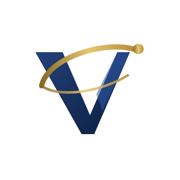
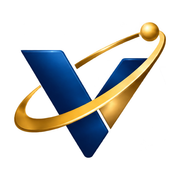
VIGO System HP を更新

Changed region(s): [[0.0556, 0.1111, 0.9444, 0.8889]]

diff --git a/assets/index-RtZc57Ys.css b/assets/index-RtZc57Ys.css
@@ -1,0 +1,1 @@
+:root{--navy:#0b1e3f;--navy-2:#12305f;--navy-3:#1d3f7a;--gold:#c9a24b;--gold-hi:#e7c873;--ink:#14213a;--mute:#5b6578;--line:#dfe4ec;--bg:#f7f8fb;--white:#fff;--radius:14px;--f-en:"Montserrat", "Noto Sans JP", sans-serif;--f-ja:"Noto Sans JP", "Hiragino Sans", sans-serif;--hdr:68px}*,:before,:after{box-sizing:border-box}html{-webkit-text-size-adjust:100%;scroll-padding-top:var(--hdr)}html.lenis,html.lenis body{height:auto}.lenis.lenis-smooth{scroll-behavior:auto!important}body{font-family:var(--f-ja);color:var(--ink);background:var(--bg);-webkit-font-smoothing:antialiased;margin:0;line-height:1.85;overflow-x:clip}img,svg,canvas{max-width:100%;display:block}a{color:inherit}button{font:inherit;cursor:pointer}.sp{display:none}@media (max-width:640px){.sp{display:inline}}.skip{z-index:100;background:var(--gold);color:var(--navy);padding:8px 12px;position:absolute;top:8px;left:-999px}.skip:focus{left:8px}.wrap{width:min(1120px,100% - 32px);margin-inline:auto}.wrap.narrow{width:min(760px,100% - 32px)}.btn{letter-spacing:.04em;border:1px solid #0000;border-radius:999px;justify-content:center;align-items:center;gap:.5em;min-height:48px;padding:0 1.6em;font-weight:700;text-decoration:none;transition:transform .25s,background .25s,color .25s,box-shadow .25s;display:inline-flex}.btn:hover{transform:translateY(-2px)}.btn-sm{min-height:40px;padding:0 1.2em;font-size:.9rem}.btn-gold{background:linear-gradient(135deg, var(--gold-hi), var(--gold) 60%, #a88232);color:var(--navy);box-shadow:0 8px 24px -10px #c9a24bcc}.btn-ghost{color:#fff;-webkit-backdrop-filter:blur(6px);backdrop-filter:blur(6px);background:#ffffff0f;border-color:#ffffff59}.btn-ghost:hover{background:#ffffff24}.btn-ghost-dark{color:var(--navy);border-color:var(--navy);background:0 0}.btn-ghost-dark:hover{background:var(--navy);color:#fff}.hdr{height:var(--hdr);z-index:50;color:#fff;justify-content:space-between;align-items:center;padding:0 max(16px,50% - 560px);transition:background .35s,color .35s,box-shadow .35s;display:flex;position:fixed;inset:0 0 auto}.hdr.solid{color:var(--navy);box-shadow:0 1px 0 var(--line);-webkit-backdrop-filter:blur(10px);backdrop-filter:blur(10px);background:#ffffffeb}.brand{align-items:center;gap:10px;text-decoration:none;display:flex}.brand-txt{flex-direction:column;line-height:1.1;display:flex}.brand-txt b{font-family:var(--f-en);letter-spacing:.06em;font-size:1.05rem;font-weight:800}.brand-txt small{letter-spacing:.3em;opacity:.75;font-size:.62rem}.brand img{box-sizing:content-box;background:#fff;border-radius:10px;padding:4px 5px}.gnav{align-items:center;gap:28px;font-size:.9rem;font-weight:500;display:flex}.gnav a:not(.btn){text-decoration:none;position:relative}.gnav a:not(.btn):after{content:"";transform-origin:0;background:currentColor;height:1px;transition:transform .3s;position:absolute;bottom:-4px;left:0;right:0;transform:scaleX(0)}.gnav a:not(.btn):hover:after{transform:scaleX(1)}.menu-btn{width:44px;height:44px;color:inherit;background:0 0;border:0;display:none;position:relative}.menu-btn span{background:currentColor;height:2px;transition:transform .3s;position:absolute;left:11px;right:11px}.menu-btn span:first-child{top:17px}.menu-btn span:last-child{top:25px}.menu-btn[aria-expanded=true] span:first-child{transform:translateY(4px)rotate(45deg)}.menu-btn[aria-expanded=true] span:last-child{transform:translateY(-4px)rotate(-45deg)}@media (max-width:860px){.menu-btn{display:block}.gnav{top:var(--hdr);height:calc(100svh - var(--hdr));background:var(--navy);color:#fff;opacity:0;pointer-events:none;flex-direction:column;justify-content:center;gap:22px;font-size:1.1rem;transition:opacity .3s;position:fixed;left:0;right:0}.gnav.open{opacity:1;pointer-events:auto}}.hero{background:radial-gradient(120% 90% at 70% 30%, #17366c 0%, var(--navy) 55%, #050d1d 100%);color:#fff;align-items:center;min-height:100svh;display:grid;position:relative;overflow:hidden}#hero-gl{width:100%;height:100%;position:absolute;inset:0}.hero-inner{width:min(1120px,100% - 32px);padding:calc(var(--hdr) + 40px) 0 80px;pointer-events:none;margin-inline:auto;position:relative}.hero-inner a,.hero-inner button{pointer-events:auto}.eyebrow{font-family:var(--f-en);letter-spacing:.32em;color:var(--gold-hi);margin:0 0 18px;font-size:.72rem;font-weight:700}.eyebrow.dark{color:var(--gold)}.nw{display:inline-block}h1,h2,p,li{word-break:auto-phrase}.hero-title{letter-spacing:.02em;margin:0;font-size:clamp(1.6rem,7.2vw,4.4rem);font-weight:700;line-height:1.32}.hero-title .line{display:block;overflow:hidden}.hero-title em{background:linear-gradient(90deg, var(--gold-hi), var(--gold));color:#0000;-webkit-background-clip:text;background-clip:text;font-style:normal}.hero-lead{color:#ffffffd1;margin:26px 0 34px;font-size:clamp(.95rem,1.6vw,1.1rem)}.hero-cta{flex-wrap:wrap;gap:12px;display:flex}@media (max-aspect-ratio:1){.hero{align-items:end}.hero-inner{padding-top:46svh;padding-bottom:72px}}.scroll-cue{font:600 .62rem var(--f-en);letter-spacing:.3em;color:#fff9;flex-direction:column;align-items:center;gap:8px;display:flex;position:absolute;bottom:22px;left:50%;transform:translate(-50%)}.scroll-cue span{background:linear-gradient(transparent, var(--gold-hi));width:1px;height:38px;animation:2s infinite cue}@keyframes cue{0%{transform-origin:top;transform:scaleY(0)}50%{transform-origin:top;transform:scaleY(1)}51%{transform-origin:bottom}to{transform-origin:bottom;transform:scaleY(0)}}.sec{padding:clamp(80px,12vw,140px) 0;position:relative}.dark-sec{background:var(--navy);color:#fff}.h2{letter-spacing:.02em;margin:0 0 20px;font-size:clamp(1.6rem,3.6vw,2.5rem);line-height:1.45}.sec-lead{color:var(--mute);max-width:40em;margin:0 0 40px}.sec-lead.light{color:#ffffffb8}.note{color:var(--mute);margin:10px 0 0;font-size:.78rem}.dark-sec .note{color:#fff9}.mono{font-family:ui-monospace,SF Mono,Menlo,monospace;font-size:.82rem}.svc-cards{grid-template-columns:repeat(5,1fr);gap:14px;margin:0;padding:0;list-style:none;display:grid}.svc{border:1px solid var(--line);border-radius:var(--radius);background:#fff;flex-direction:column;gap:6px;min-height:210px;padding:22px 20px;text-decoration:none;transition:transform .35s,box-shadow .35s,border-color .35s;display:flex;position:relative;overflow:hidden}.svc:before{content:"";background:linear-gradient(160deg, var(--navy), var(--navy-3));opacity:0;transition:opacity .35s;position:absolute;inset:0}.svc>*{position:relative}.svc:hover{transform:translateY(-6px);box-shadow:0 24px 40px -24px #0b1e3f80}.svc:hover:before{opacity:1}.svc:hover b,.svc:hover small{color:#fff}.svc .num{font:800 .8rem var(--f-en);color:var(--gold);letter-spacing:.1em}.svc b{margin-top:auto;font-size:1.12rem;transition:color .35s}.svc small{color:var(--mute);font-size:.8rem;line-height:1.6;transition:color .35s}.svc .arrow{border:1px solid var(--gold);border-radius:50%;width:26px;height:26px;position:absolute;top:22px;right:18px}.svc .arrow:after{content:"";border-right:1.5px solid var(--gold);border-bottom:1.5px solid var(--gold);width:7px;height:7px;margin:auto;position:absolute;inset:0;transform:translateY(-1px)rotate(45deg)}@media (max-width:960px){.svc-cards{grid-template-columns:repeat(2,1fr)}.svc-cards li:last-child{grid-column:1/-1}.svc{min-height:150px}}.demo-grid{grid-template-columns:1fr 1fr;align-items:center;gap:clamp(32px,6vw,80px);display:grid}.demo-grid.rev>:first-child{order:2}@media (max-width:860px){.demo-grid{grid-template-columns:1fr}.demo-grid.rev>:first-child{order:0}}.demo-txt p{margin:0 0 18px}.dark-sec .demo-txt p{color:#fffc}.ticks{gap:8px;margin:0 0 24px;padding:0;font-size:.92rem;list-style:none;display:grid}.ticks li{padding-left:26px;position:relative}.ticks li:before{content:"";border-left:2px solid var(--gold);border-bottom:2px solid var(--gold);width:12px;height:7px;position:absolute;top:.55em;left:2px;transform:rotate(-45deg)}.demo-box{border-radius:var(--radius);background:#ffffff0a;border:1px solid #ffffff1f;padding:18px}#flow-svg{width:100%;height:auto}#flow-svg .node rect{fill:var(--navy-2);stroke:#e7c87380}#flow-svg .node text{fill:#fff;font-size:18px;font-weight:700;font-family:var(--f-ja)}#flow-svg .node .sub{fill:#fff9;font-size:11.5px;font-weight:500}#flow-svg .edge{fill:none;stroke:#ffffff38;stroke-width:2px}#flow-svg .edge.back{stroke-dasharray:5 6;stroke:#e7c87366}#flow-svg .pkt{fill:var(--gold-hi)}#flow-svg .pkt.ng{fill:#ff8a7a}.worker-test{flex-wrap:wrap;align-items:center;gap:12px;margin-top:14px;display:flex}.worker-test p{color:#fffc;flex:220px;margin:0}.phone{aspect-ratio:9/18.5;background:linear-gradient(145deg,#2a2f3a,#0d1017);border-radius:44px;width:min(320px,100%);margin-inline:auto;padding:12px;position:relative;box-shadow:0 40px 80px -30px #0b1e3f99,inset 0 0 0 2px #3a404d}.phone-notch{z-index:2;background:#000;border-radius:20px;width:90px;height:24px;position:absolute;top:20px;left:50%;transform:translate(-50%)}.phone-screen{background:#f3f5f9;border-radius:34px;flex-direction:column;gap:12px;height:100%;padding:54px 16px 16px;font-size:.86rem;display:flex;overflow:auto}.app-bar{justify-content:space-between;align-items:baseline;display:flex}.app-bar b{font-size:1.2rem}.app-bar span{color:var(--mute);font-size:.75rem}.app-status{background:var(--navy);color:#fff;text-align:center;border-radius:12px;padding:12px;font-weight:700}.app-status.on{background:linear-gradient(135deg,#1f7a53,#145a3c)}.app-btns{grid-template-columns:1fr 1fr;gap:8px;display:grid}.app-btn{color:#fff;border:0;border-radius:12px;min-height:52px;font-size:1rem;font-weight:700;transition:transform .1s}.app-btn:active{transform:scale(.96)}.app-btn.go{background:var(--navy-3)}.app-btn.back{background:#6b7385}.app-btn:disabled{opacity:.35}.app-check{border:1px solid var(--line);background:#fff;border-radius:12px;gap:4px;margin:0;padding:8px 12px;display:grid}.app-check legend{color:var(--mute);padding:0 4px;font-size:.72rem}.app-check label{align-items:center;gap:8px;min-height:30px;display:flex}.app-check input{width:18px;height:18px;accent-color:var(--navy-3)}.app-log{gap:6px;margin:0;padding:0;list-style:none;display:grid}.app-log li{border-left:3px solid var(--gold);background:#fff;border-radius:10px;justify-content:space-between;padding:8px 10px;animation:.35s pop;display:flex}@keyframes pop{0%{opacity:0;transform:translateY(6px)}}.app-clear{color:var(--mute);background:0 0;border:0;margin-top:auto;font-size:.75rem;text-decoration:underline}.web-sec{background:#fff;padding-bottom:80px}.web-pin{align-items:center;min-height:100svh;padding:60px 0;display:flex}.web-steps{flex-wrap:wrap;gap:8px;margin:0;padding:0;list-style:none;display:flex}.web-steps li{border:1px solid var(--line);color:var(--mute);border-radius:999px;padding:6px 14px;font-size:.82rem;transition:all .3s}.web-steps li.on{background:var(--navy);color:#fff;border-color:var(--navy)}.mock{border:1px solid var(--line);background:#fff;border-radius:14px;overflow:hidden;box-shadow:0 30px 60px -30px #0b1e3f66}.mock-bar{background:#eef1f6;align-items:center;gap:6px;padding:10px 12px;display:flex}.mock-bar i{background:#cfd5df;border-radius:50%;width:10px;height:10px}.mock-bar span{color:var(--mute);background:#fff;border-radius:6px;flex:1;margin-left:10px;padding:2px 10px;font-size:.7rem}.mock-body{gap:14px;padding:16px;display:grid}.mock-body div,.mock-body i{transition:background .6s,border-color .6s,transform .8s cubic-bezier(.2,.8,.2,1),opacity .6s,box-shadow .6s}.m-hero{border:2px dashed #c9cfd9;border-radius:10px;flex-direction:column;justify-content:center;gap:10px;height:150px;padding:18px;display:flex;position:relative;overflow:hidden}.m-h1{background:#e3e7ee;border-radius:4px;width:62%;height:18px}.m-p{background:#e3e7ee;border-radius:4px;width:44%;height:10px}.m-btn{border:2px dashed #c9cfd9;border-radius:999px;width:84px;height:24px}.m-cards{grid-template-columns:repeat(3,1fr);gap:10px;display:grid}.m-cards div{border:2px dashed #c9cfd9;border-radius:8px;height:64px}.m-row{grid-template-columns:1fr 1.3fr;gap:12px;display:grid}.m-img{border:2px dashed #c9cfd9;border-radius:8px;height:76px}.m-lines{align-content:center;gap:8px;display:grid}.m-lines i{background:#e3e7ee;border-radius:4px;height:8px;display:block}.m-lines i:nth-child(2){width:80%}.m-lines i:nth-child(3){width:56%}.mock[data-stage="1"] .m-hero,.mock[data-stage="2"] .m-hero{background:linear-gradient(135deg, var(--navy), var(--navy-3));border:2px solid #0000}.mock[data-stage="1"] .m-h1,.mock[data-stage="2"] .m-h1{background:#fff}.mock[data-stage="1"] .m-p,.mock[data-stage="2"] .m-p{background:#ffffff80}.mock[data-stage="1"] .m-btn,.mock[data-stage="2"] .m-btn{background:var(--gold);border:2px solid #0000}.mock[data-stage="1"] .m-cards div,.mock[data-stage="2"] .m-cards div{border:1px solid var(--line);background:#f6f8fb}.mock[data-stage="1"] .m-img,.mock[data-stage="2"] .m-img{background:#dfe6f2;border:2px solid #0000}.mock[data-stage="1"] .m-lines i,.mock[data-stage="2"] .m-lines i{background:#c7cfdc}.mock[data-stage="2"] .m-hero:after{content:"";background:radial-gradient(circle,#e7c873e6,#0000 65%);border-radius:50%;width:140px;height:140px;animation:4s ease-in-out infinite float;position:absolute;top:-30px;right:-20px}.mock[data-stage="2"] .m-btn{animation:2.4s ease-in-out infinite breathe;box-shadow:0 0 0 6px #c9a24b40}.mock[data-stage="2"] .m-cards div:first-child{transform:translateY(-6px);box-shadow:0 12px 20px -14px #0b1e3f80}.mock[data-stage="2"] .m-cards div:nth-child(2){transform:translateY(-3px)}.mock[data-stage="2"] .m-img{background:linear-gradient(120deg,#8aa3cf,#c9a24b) 0 0/200% 200%;animation:5s infinite pan}@keyframes float{50%{transform:translate(-16px,14px)}}@keyframes breathe{50%{box-shadow:0 0 0 10px #c9a24b1a}}@keyframes pan{50%{background-position:100% 100%}}.metrics{grid-template-columns:repeat(4,1fr);gap:12px;margin:0;display:grid}.metrics div{border:1px solid var(--line);border-radius:var(--radius);background:var(--bg);padding:16px}.metrics dt{color:var(--mute);font-size:.74rem}.metrics dd{font:800 1.5rem var(--f-en);color:var(--navy);margin:4px 0 0}@media (max-width:760px){.metrics{grid-template-columns:1fr 1fr}}.sns-wrap{color:var(--ink);background:#fff;border-radius:18px;width:min(420px,100%);margin-inline:auto;padding:14px}.sns-head{align-items:center;gap:10px;margin-bottom:12px;display:flex}.sns-head b{font-size:.9rem;line-height:1.3;display:block}.sns-head small{color:var(--mute);font-size:.68rem}.sns-ava{background:conic-gradient(var(--gold-hi), var(--navy-3), var(--gold-hi));border-radius:50%;flex:none;width:40px;height:40px;padding:2px}.sns-grid{grid-template-columns:repeat(3,1fr);gap:3px;display:grid}.sns-grid canvas{aspect-ratio:4/5;border-radius:2px;width:100%;height:auto}.ai-box{background:var(--white);border:1px solid var(--line);border-radius:var(--radius);padding:22px;box-shadow:0 30px 60px -40px #0b1e3f66}.ai-lab{font-size:.85rem;font-weight:700}.ai-box textarea{border:1px solid var(--line);width:100%;font:inherit;resize:vertical;background:var(--bg);border-radius:10px;margin:8px 0 12px;padding:12px}.ai-prog{background:var(--line);border-radius:3px;height:6px;margin-top:12px;overflow:hidden}.ai-prog i{background:linear-gradient(90deg, var(--gold), var(--navy-3));width:0;height:100%;transition:width .2s;display:block}.ai-res{gap:8px;margin:16px 0 0;padding:0;list-style:none;display:grid}.ai-res li{grid-template-columns:7.5em 1fr 3.2em;align-items:center;gap:10px;font-size:.86rem;display:grid}.ai-res .bar{background:var(--line);border-radius:5px;height:10px;overflow:hidden}.ai-res .bar i{background:var(--navy-3);width:0;height:100%;transition:width .8s cubic-bezier(.2,.8,.2,1);display:block}.ai-res li.top .bar i{background:linear-gradient(90deg, var(--gold), var(--gold-hi))}.ai-res li.top b{color:var(--navy)}.ai-res .pct{font:700 .8rem var(--f-en);text-align:right;color:var(--mute)}.tech-sec{overflow:hidden}.sphere{cursor:grab;touch-action:pan-y;-webkit-user-select:none;user-select:none;height:clamp(380px,60vw,560px);margin-top:10px;position:relative}.sphere:active{cursor:grabbing}.sphere span{white-space:nowrap;font:700 clamp(.78rem, 1.6vw, 1rem) var(--f-en);color:#fff;will-change:transform, opacity;background:#12305fbf;border:1px solid #e7c87373;border-radius:999px;padding:6px 14px;position:absolute;top:50%;left:50%}.works{grid-template-columns:repeat(auto-fill,minmax(300px,1fr));gap:16px;margin:0;padding:0;list-style:none;display:grid}.works li{border:1px solid var(--line);border-radius:var(--radius);background:#fff;flex-direction:column;gap:4px;padding:22px;display:flex;position:relative}.works .tag{color:var(--gold);border:1px solid var(--gold);border-radius:999px;align-self:flex-start;padding:0 10px;font-size:.7rem;font-weight:700}.works b{margin-top:8px;font-size:1.05rem}.works small{color:var(--mute);font-size:.78rem}.works p{color:#39445a;margin:8px 0 12px;font-size:.86rem}.works .st{background:var(--bg);color:var(--navy-3);border-radius:6px;align-self:flex-start;margin-top:auto;padding:2px 10px;font-size:.72rem;font-weight:700}.flow-sec{background:#fff}.steps{z-index:1;grid-template-columns:repeat(5,1fr);gap:16px;margin:40px 0 0;padding:0;list-style:none;display:grid;position:relative}.steps li{background:#fff}.steps span{font:800 2rem var(--f-en);color:var(--gold);display:block}.steps b{font-size:1.1rem}.steps p{color:var(--mute);margin:6px 0 0;font-size:.84rem}.steps-line{width:100%;height:10px;margin-top:24px}.steps-line path{stroke:var(--gold);stroke-width:3px;fill:none;stroke-dasharray:1000;stroke-dashoffset:1000px;vector-effect:non-scaling-stroke}@media (max-width:860px){.steps{grid-template-columns:1fr;gap:20px}.steps li{grid-template-columns:3.4em 1fr;column-gap:12px;display:grid}.steps span{grid-row:span 2}.steps p{margin:0}.steps-line{display:none}}.eng{grid-template-columns:220px 1fr;align-items:center;gap:48px;display:grid}.eng-mark{aspect-ratio:1;background:radial-gradient(circle at 30% 30%,#fff,#dfe5ef);border-radius:50%;place-items:center;display:grid;box-shadow:0 0 0 1px #e7c87399,0 0 0 14px #ffffff0a,0 0 0 28px #ffffff08}.eng-mark img{width:58%}.eng .h2{font-family:var(--f-en);letter-spacing:.1em;margin-bottom:4px;font-weight:800}.eng-role{color:var(--gold-hi);margin:0 0 16px;font-size:.85rem}.eng p:last-child{color:#fffc}@media (max-width:700px){.eng{grid-template-columns:1fr;gap:28px}.eng-mark{width:160px}}.co{border-top:1px solid var(--line);margin:0}.co div{border-bottom:1px solid var(--line);grid-template-columns:9em 1fr;gap:16px;padding:18px 4px;display:grid}.co dt{color:var(--mute);font-size:.88rem}.co dd{margin:0}.co .tbd{color:var(--mute)}@media (max-width:560px){.co div{grid-template-columns:1fr;gap:2px}}.form{gap:18px;margin-top:10px;display:grid}.form label{gap:6px;font-size:.86rem;font-weight:500;display:grid}.form input:not([type=checkbox]),.form textarea{color:#fff;width:100%;font:inherit;background:#ffffff0f;border:1px solid #ffffff40;border-radius:10px;padding:12px 14px;font-size:1rem}.form input:focus,.form textarea:focus{outline:2px solid var(--gold);outline-offset:1px}.form [aria-invalid=true]{border-color:#ff8a7a}.chips{border:0;flex-wrap:wrap;gap:8px;margin:0;padding:0;display:flex}.chips legend{margin-bottom:8px;padding:0;font-size:.86rem}.chips label{cursor:pointer;border:1px solid #ffffff40;border-radius:999px;align-items:center;gap:6px;padding:6px 14px;display:inline-flex}.chips label:has(input:checked){background:var(--gold);color:var(--navy);border-color:var(--gold)}.chips input{opacity:0;pointer-events:none;position:absolute}.chips label:has(input:focus-visible){outline:2px solid var(--gold-hi)}.form .btn{justify-self:start}.ftr{color:#ffffffb3;background:#050d1d;padding:36px 0 90px;font-size:.78rem}.ftr-in{flex-wrap:wrap;justify-content:space-between;align-items:center;gap:16px;display:flex}.ftr .brand{color:#fff}.story{background:radial-gradient(90% 70% at 50% 40%,#fff 0%,#eef2f8 55%,#dde4ef 100%);position:relative}.story-stage{height:100svh;position:relative;overflow:hidden}#story-gl{width:100%;height:100%;position:absolute;inset:0}.story-caps{pointer-events:none;width:min(360px,34vw);margin:0;padding:0;list-style:none;position:absolute;top:50%;left:max(16px,50% - 560px);transform:translateY(-50%)}.story-cap{opacity:0;transition:opacity .6s,transform .6s cubic-bezier(.2,.8,.2,1);position:absolute;inset:auto 0;transform:translateY(calc(24px - 50%))}.story-cap.on{opacity:1;transform:translateY(-50%)}.story-cap span{font:800 .8rem var(--f-en);color:var(--gold);letter-spacing:.2em}.story-cap b{color:var(--navy);margin:8px 0 12px;font-size:clamp(1.4rem,2.6vw,2.1rem);line-height:1.45;display:block}.story-cap p{color:var(--mute);margin:0;font-size:.95rem}.story-label{color:#fff;white-space:nowrap;opacity:0;pointer-events:none;background:#0b1e3fe0;border-radius:999px;align-items:center;gap:8px;margin:-14px 0 0 6px;padding:6px 12px;font-size:.8rem;font-weight:700;transition:opacity .4s;display:flex;position:absolute;top:0;left:0}.story-label i{background:var(--gold-hi);width:8px;height:8px;box-shadow:0 0 8px var(--gold-hi);border-radius:50%}.story-label.on{opacity:1}.story-bar{background:#0b1e3f1f;border-radius:2px;width:min(240px,50vw);height:3px;position:absolute;bottom:28px;left:50%;overflow:hidden;transform:translate(-50%)}.story-bar i{transform-origin:0;background:linear-gradient(90deg, var(--gold), var(--navy-3));width:100%;height:100%;display:block;transform:scaleX(0)}.story-hint{color:var(--mute);letter-spacing:.1em;margin:0;font-size:.72rem;position:absolute;bottom:40px;left:50%;transform:translate(-50%)}@media (max-aspect-ratio:21/20){.story-caps{top:calc(var(--hdr) + 16px);width:auto;right:16px;transform:none}.story-cap{transform:translateY(16px)}.story-cap.on{transform:none}.story-cap b{margin:4px 0 6px;font-size:1.3rem}.story-cap p{font-size:.85rem}}.rv{opacity:0;transform:translateY(28px)}.no-js .rv,.reduced .rv{opacity:1;transform:none}.xray-btn{z-index:60;color:#fff;-webkit-backdrop-filter:blur(8px);backdrop-filter:blur(8px);background:#0b1e3fe0;border:1px solid #e7c87399;border-radius:999px;align-items:center;gap:8px;min-height:44px;padding:0 16px;font-size:.82rem;font-weight:700;display:flex;position:fixed;bottom:16px;right:16px;box-shadow:0 10px 30px -10px #00000080}.xray-btn.hide{opacity:0;pointer-events:none;transform:translateY(10px)}.xray-btn{transition:opacity .3s,transform .3s}.xray-btn .dot{background:#6b7385;border-radius:50%;width:9px;height:9px;transition:background .3s,box-shadow .3s}.xray-btn[aria-pressed=true] .dot{background:#4ef0a8;box-shadow:0 0 10px #4ef0a8}.hud{z-index:60;color:#cfe9ff;-webkit-backdrop-filter:blur(8px);backdrop-filter:blur(8px);background:#030a18e6;border:1px solid #4ef0a866;border-radius:12px;width:236px;padding:12px 14px;font:500 .72rem ui-monospace,SF Mono,Menlo,monospace;position:fixed;bottom:16px;left:16px}.hud-t{color:#4ef0a8;letter-spacing:.05em;margin:0 0 6px}.hud dl{gap:2px;margin:0;display:grid}.hud dl div{justify-content:space-between;gap:8px;display:flex}.hud dd{color:#fff;margin:0}@media (max-width:560px){.hud{width:auto;bottom:70px;left:8px;right:8px}.hud dl{grid-template-columns:1fr 1fr;column-gap:14px}}body.xray [data-tech]{outline-offset:-8px;outline:1px dashed #4ef0a8b3}body.xray [data-tech]:before{content:attr(data-tech);z-index:40;color:#04140c;pointer-events:none;background:#4ef0a8;border-radius:4px;max-width:calc(100% - 28px);padding:4px 10px;font:600 .72rem ui-monospace,SF Mono,Menlo,monospace;animation:.35s tagin;position:absolute;top:14px;left:14px}body.xray .hdr[data-tech]:before{top:calc(100% + 6px)}body.xray .hdr{outline-offset:-2px}body.xray{background-image:linear-gradient(#4ef0a80f 1px,#0000 1px),linear-gradient(90deg,#4ef0a80f 1px,#0000 1px);background-size:24px 24px}@keyframes tagin{0%{opacity:0;transform:translateY(-4px)}}@media (prefers-reduced-motion:reduce){*,:before,:after{transition-duration:.01ms!important;animation-duration:.01ms!important;animation-iteration-count:1!important}}:root{--f-serif-en:"Cormorant Garamond", "Shippori Mincho", serif;--f-mincho:"Shippori Mincho", "Hiragino Mincho ProN", serif;--space:#02040a}.hdr{color:#fff;opacity:0;pointer-events:none;background:linear-gradient(#02040a8c,#02040a00);height:92px;padding-inline:max(20px,50% - 688px);transition:opacity .8s,transform .8s,background .4s;transform:translateY(-12px)}body.hdr-on .hdr{opacity:1;pointer-events:auto;transform:none}.hdr.solid{color:#fff;-webkit-backdrop-filter:blur(14px);backdrop-filter:blur(14px);background:#040916db;box-shadow:0 1px #e7c8732e}.brand img{background:0 0;width:58px;height:auto;padding:0}.hdr.solid .brand img{box-shadow:none}.brand-txt b{letter-spacing:.02em;background:linear-gradient(#fff,#c9d4e8);color:#0000;-webkit-background-clip:text;background-clip:text;font-size:1.45rem;font-weight:800}.brand-txt small{letter-spacing:.35em;opacity:.8;align-items:center;gap:6px;font-size:.62rem;display:flex}.brand-txt small:before,.brand-txt small:after{content:"";opacity:.6;background:currentColor;width:22px;height:1px}.gnav{gap:38px}.gnav>a:not(.pill){flex-direction:column;align-items:center;padding-bottom:6px;line-height:1.25;text-decoration:none;display:flex}.gnav>a:not(.pill) b{font:500 1.08rem var(--f-serif-en);letter-spacing:.14em}.gnav>a:not(.pill) small{font:500 .66rem var(--f-mincho);letter-spacing:.2em;opacity:.75}.gnav>a.on{color:var(--gold-hi)}.gnav>a:not(.pill):after{background:linear-gradient(90deg, transparent, var(--gold-hi), transparent);height:2px;bottom:-2px;left:20%;right:20%}.gnav>a.on:after{transform:scaleX(1)}.gnav-sep{background:#ffffff40;width:1px;height:40px}.pill{letter-spacing:.06em;white-space:nowrap;border-radius:999px;align-items:center;gap:12px;min-height:52px;padding:0 26px;font-size:.95rem;font-weight:700;text-decoration:none;transition:transform .25s,box-shadow .25s,background .25s;display:inline-flex}.pill svg{fill:none;stroke:currentColor;stroke-width:1.6px;stroke-linecap:round;stroke-linejoin:round;flex:none;width:20px;height:20px}.pill .arr{margin-left:6px;transition:transform .25s}.pill:hover{transform:translateY(-2px)}.pill:hover .arr{transform:translate(4px)}.pill-gold{color:#1a1408;background:linear-gradient(#f3dca2,#d7b46c 55%,#b98f45);box-shadow:0 10px 30px -12px #e7be6ed9,inset 0 1px #fff9}.pill-line{color:#fff;-webkit-backdrop-filter:blur(6px);backdrop-filter:blur(6px);background:#08102259;border:1px solid #ffffff8c}.pill-line:hover{background:#ffffff14}.cosmos{background:var(--space);position:relative}.cosmos-stage{background:var(--space);height:100svh;position:relative;overflow:hidden}#cosmos-gl{width:100%;height:100%;display:block;position:absolute;inset:0}.cosmos-flash{pointer-events:none;opacity:0;mix-blend-mode:screen;background:radial-gradient(circle,#fffaf0 0%,#ffe2aad9 18%,#78a0ff40 45%,#02040a00 75%);position:absolute;inset:0}.cosmos-ui{visibility:hidden;color:#fff;position:absolute;inset:0}.cosmos-copy{width:min(640px,48vw);position:absolute;top:20%;left:max(24px,59% - 720px)}.logo-big{align-items:center;gap:4px;display:flex}.logo-big img{filter:drop-shadow(0 0 24px #78a0ff59);width:clamp(90px,9vw,150px);height:auto}.logo-big b{font:800 clamp(2.4rem, 4.6vw, 4.4rem) var(--f-en);letter-spacing:-.01em;background:linear-gradient(#fff 0%,#dfe6f3 45%,#9fb0cc 100%);color:#0000;filter:drop-shadow(0 2px 18px #8caaff59);-webkit-background-clip:text;background-clip:text;line-height:1;display:block}.logo-big span{font:600 clamp(.9rem, 1.4vw, 1.3rem) var(--f-mincho);letter-spacing:.3em;color:#dfe6f3;justify-content:center;align-items:center;gap:14px;margin-top:8px;display:flex}.logo-big span:before,.logo-big span:after{content:"";background:#dfe6f3b3;flex:1;max-width:80px;height:1px}.catch{border-left:2px solid var(--gold-hi);font:500 clamp(1.05rem, 1.85vw, 2rem) var(--f-mincho);letter-spacing:.06em;white-space:nowrap;color:#f3f5fa;text-shadow:0 2px 20px #0009;margin:clamp(22px,3vw,40px) 0 0;padding-left:22px;line-height:1.6}.catch-en{font:500 clamp(.7rem, .95vw, .9rem) var(--f-serif-en);letter-spacing:.62em;color:#dfe6f3bf;margin:14px 0 0 24px}.cosmos-cta{flex-wrap:wrap;gap:22px;margin:clamp(26px,3.4vw,44px) 0 0 22px;display:flex}.cosmos-scroll{font:500 .82rem var(--f-serif-en);letter-spacing:.3em;color:#ffffffbf;flex-direction:column;align-items:center;gap:8px;margin:0;display:flex;position:absolute;bottom:18px;left:50%;transform:translate(-50%)}.cosmos-scroll i{background:linear-gradient(#ffffffb3,#0000);width:1px;height:46px}.orbit-icons{pointer-events:none;position:absolute;inset:0}.oi{color:#fff;pointer-events:auto;opacity:0;will-change:transform, opacity;text-align:center;flex-direction:column;align-items:center;text-decoration:none;display:flex;position:absolute;top:0;left:0}.oi-c{aspect-ratio:1;background:radial-gradient(circle at 35% 30%,#465a82f2,#0e1628f2 70%);border-radius:50%;place-items:center;width:clamp(64px,5.6vw,96px);transition:transform .3s,box-shadow .3s;display:grid;box-shadow:0 0 0 1px #ffffff47,0 0 0 4px #0a101e99,0 12px 30px #0000008c,inset 0 1px #ffffff40}.oi-c svg{fill:none;stroke:#f2f5fb;stroke-width:1.4px;stroke-linecap:round;stroke-linejoin:round;width:46%;height:46%}.oi:hover .oi-c{box-shadow:0 0 0 1px var(--gold-hi), 0 0 24px #e7c87399, 0 12px 30px #0000008c;transform:translateY(-4px)scale(1.05)}.oi b{font:600 clamp(.95rem, 1.35vw, 1.3rem) var(--f-mincho);letter-spacing:.06em;text-shadow:0 2px 12px #000000e6;white-space:nowrap;margin-top:10px}.oi small{font:500 clamp(.7rem, .9vw, .88rem) var(--f-serif-en);letter-spacing:.04em;color:#e6ecf8d9;text-shadow:0 2px 10px #000000e6;white-space:nowrap}.cosmos-cue{color:#dce4f5cc;letter-spacing:.25em;pointer-events:none;flex-direction:column;align-items:center;gap:10px;margin:0;font-size:.8rem;transition:opacity .3s;display:flex;position:absolute;bottom:34px;left:50%;transform:translate(-50%)}.cosmos-cue i{background:linear-gradient(var(--gold-hi), transparent);width:1px;height:52px;animation:2.2s infinite cue}.cosmos-skip{z-index:3;color:#ffffffbf;min-height:40px;font:500 .8rem var(--f-serif-en);letter-spacing:.25em;background:#ffffff0a;border:1px solid #ffffff4d;border-radius:999px;padding:0 16px;transition:opacity .3s,background .3s;position:absolute;bottom:22px;right:22px}.cosmos-skip:hover{background:#ffffff1f}body:not(.past-hero) .xray-btn{opacity:0;pointer-events:none}@media (max-width:1100px){.gnav{gap:22px}.gnav>a:not(.pill) b{font-size:.95rem}}@media (max-width:860px){.hdr{height:68px}.brand img{width:40px}.brand-txt b{font-size:1.1rem}.gnav>a:not(.pill){flex-direction:row;align-items:baseline;gap:10px}.gnav-sep{display:none}}@media (max-aspect-ratio:21/20){.cosmos-copy{width:auto;inset:auto 20px calc(clamp(120px,21svh,190px) + 36px)}.logo-big{justify-content:center}.logo-big img{width:64px}.logo-big b{font-size:clamp(1.9rem,8.6vw,2.6rem)}.catch{white-space:normal;margin-top:16px;font-size:clamp(1.05rem,4.6vw,1.3rem)}.catch-en{letter-spacing:.38em;font-size:.62rem}.cosmos-cta{gap:10px;margin-top:18px;margin-left:0}.cosmos-cta .pill{flex:1 1 0;justify-content:center;gap:8px;min-height:46px;padding:0 14px;font-size:.85rem}.cosmos-cta .pill .arr{display:none}.orbit-icons{justify-content:center;gap:4px;padding:0 8px;display:flex;inset:auto 0 34px}.oi{flex:1 1 0;position:static;transform:none!important}.oi-c{width:clamp(46px,13vw,60px)}.oi b{letter-spacing:0;white-space:normal;margin-top:6px;font-size:.66rem;line-height:1.3}.oi small,.cosmos-scroll{display:none}}@media (prefers-reduced-motion:reduce){.cosmos-cue i{animation:none}}.film-load{z-index:2;pointer-events:none;height:2px;transition:opacity .6s;position:absolute;top:0;left:0;right:0}.film-load i{transform-origin:0;width:100%;height:100%;transform:scaleX(var(--k,0));background:linear-gradient(90deg,#c9a24b33,#e7c873);transition:transform .3s;display:block}.brand .brand-logo{width:auto;height:50px;box-shadow:none;background:0 0;padding:0}.hdr.solid .brand .brand-logo{box-shadow:none}.logo-big{width:min(560px,46vw);display:block;position:relative}.logo-big:before{content:"";z-index:-1;filter:blur(6px);pointer-events:none;background:radial-gradient(closest-side,#ffffffeb,#e1e8f599 45%,#c8d4eb00 100%);position:absolute;inset:-38% -14% -42% -12%}.logo-big img{filter:none;width:100%;height:auto;display:block}.cosmos-copy{isolation:isolate}.ftr .brand{flex-direction:column;align-items:flex-start;gap:6px}.ftr .brand .brand-logo{height:40px}.ftr-op{color:#fff9;font-size:.7rem}@media (max-width:860px){.brand .brand-logo{height:38px}}@media (max-aspect-ratio:21/20){.logo-big{width:min(330px,84vw);margin-inline:auto}}@media (min-aspect-ratio:21/20){.cosmos-copy{top:12%}.logo-big{width:min(480px,36vw)}.catch{margin-top:clamp(14px,2.2vh,30px)}.catch-en{margin-top:8px}.cosmos-cta{margin-top:clamp(16px,3vh,34px)}}

diff --git a/index.html b/index.html
@@ -7,22 +7,21 @@
   <meta name="description" content="VIGO System（運営：O&K TRADE株式会社）。システム開発・アプリ開発・Web制作・SNS運用・AIソリューション。このページ自体が、技術の見本です。" />
   <meta name="robots" content="noindex, nofollow" />
   <meta name="theme-color" content="#02040a" />
-  <link rel="icon" href="./icons/icon.svg" type="image/svg+xml" />
+  <link rel="icon" href="./icons/icon-mark-96.png" type="image/png" />
   <link rel="manifest" href="./manifest.webmanifest" />
   <link rel="apple-touch-icon" href="./icons/icon-180.png" />
   <link rel="preconnect" href="https://fonts.googleapis.com" />
   <link rel="preconnect" href="https://fonts.gstatic.com" crossorigin />
   <link href="https://fonts.googleapis.com/css2?family=Cormorant+Garamond:wght@500;600&family=Montserrat:wght@500;700;800&family=Noto+Sans+JP:wght@400;500;700&family=Shippori+Mincho:wght@500;600&display=swap" rel="stylesheet" />
-  <script type="module" crossorigin src="./assets/index-BySqf2rR.js"></script>
-  <link rel="stylesheet" crossorigin href="./assets/index-CymdI0J_.css">
+  <script type="module" crossorigin src="./assets/index-DRaUZiQj.js"></script>
+  <link rel="stylesheet" crossorigin href="./assets/index-RtZc57Ys.css">
 </head>
 <body>
   <a class="skip" href="#main">本文へ</a>
 
   <header class="hdr" data-tech="固定ヘッダー｜トップの演出が終わると現れる">
     <a class="brand" href="#top" aria-label="VIGO System トップへ">
-      <img src="./logo-mark-dark.svg" alt="" width="58" height="48" />
-      <span class="brand-txt"><b>VIGO SYSTEM</b><small>ビゴシステム</small></span>
+      <img class="brand-logo" src="./logo-full-white.png" alt="VIGO SYSTEM ビゴシステム" width="900" height="224" />
     </a>
     <nav class="gnav" aria-label="メイン">
       <a href="#top" class="on"><b>HOME</b><small>ホーム</small></a>
@@ -45,8 +44,7 @@
         <div class="cosmos-ui">
           <div class="cosmos-copy">
             <div class="logo-big" data-ui>
-              <img src="./logo-mark-dark.svg" alt="" width="150" height="125" />
-              <div><b>VIGO SYSTEM</b><span>ビゴシステム</span></div>
+              <img src="./logo-full.png" alt="VIGO SYSTEM ビゴシステム" width="1200" height="298" />
             </div>
             <h1 class="catch" data-ui>信頼のシステムで、<br class="sp" />未来の業務をスマートに。</h1>
             <p class="catch-en" data-ui>BUSINESS SOLUTION PLATFORM</p>
@@ -281,7 +279,7 @@
     <!-- 11 ENGINEER -->
     <section id="engineer" class="sec dark-sec eng-sec" data-tech="CSS＋SVG｜画像を使わずに描画">
       <div class="wrap eng">
-        <div class="eng-mark" aria-hidden="true"><img src="./logo-mark.svg" alt="" /></div>
+        <div class="eng-mark" aria-hidden="true"><img src="./logo-mark.png" alt="" /></div>
         <div>
           <p class="eyebrow">ENGINEER</p>
           <h2 class="h2">GENTO</h2>
@@ -332,7 +330,7 @@
 
   <footer class="ftr">
     <div class="wrap ftr-in">
-      <a class="brand" href="#top"><img src="./logo-mark-dark.svg" alt="" width="36" height="30" /><span class="brand-txt"><b>VIGO SYSTEM</b><small>運営：O&amp;K TRADE株式会社</small></span></a>
+      <a class="brand" href="#top"><img class="brand-logo" src="./logo-full-white.png" alt="VIGO SYSTEM ビゴシステム" width="900" height="224" /><small class="ftr-op">運営：O&amp;K TRADE株式会社</small></a>
       <p>© 2026 O&amp;K TRADE Co., Ltd.</p>
     </div>
   </footer>

diff --git a/sw.js b/sw.js
@@ -1,7 +1,7 @@
 // ページはネット優先（新しい版を出す）・部品は保存したものを先に使う。電波がなくても開ける。
-const CACHE = 'vigo-system-v1';
+const CACHE = 'vigo-system-v2';
 self.addEventListener('install', (e) => {
-  e.waitUntil(caches.open(CACHE).then((c) => c.addAll(['./', './index.html', './logo-mark.svg', './manifest.webmanifest'])));
+  e.waitUntil(caches.open(CACHE).then((c) => c.addAll(['./', './index.html', './logo-mark.png', './logo-full-white.png', './manifest.webmanifest'])));
   self.skipWaiting();
 });
 self.addEventListener('activate', (e) => {
